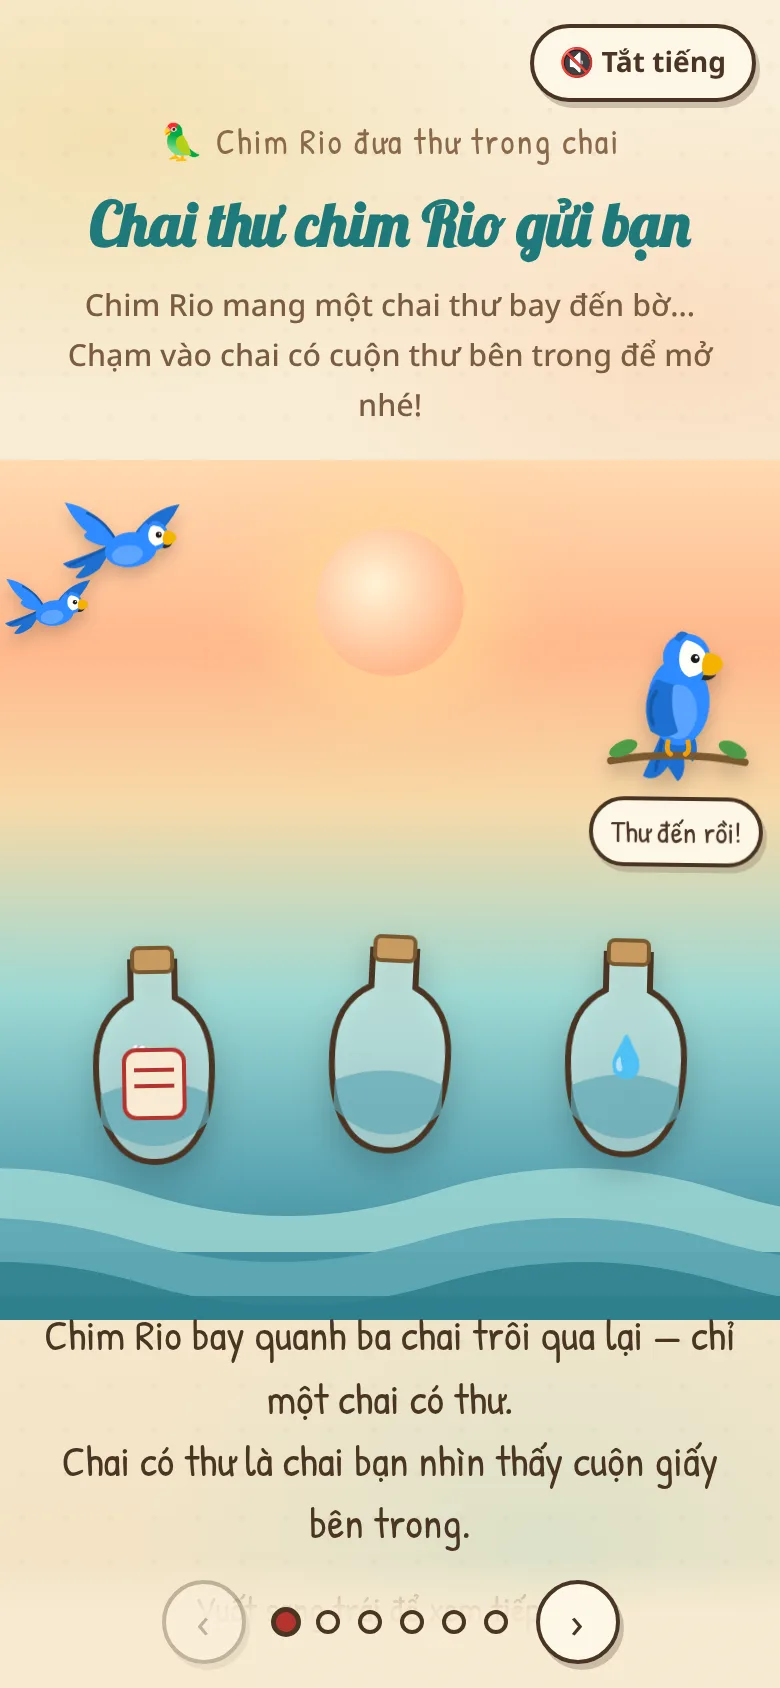
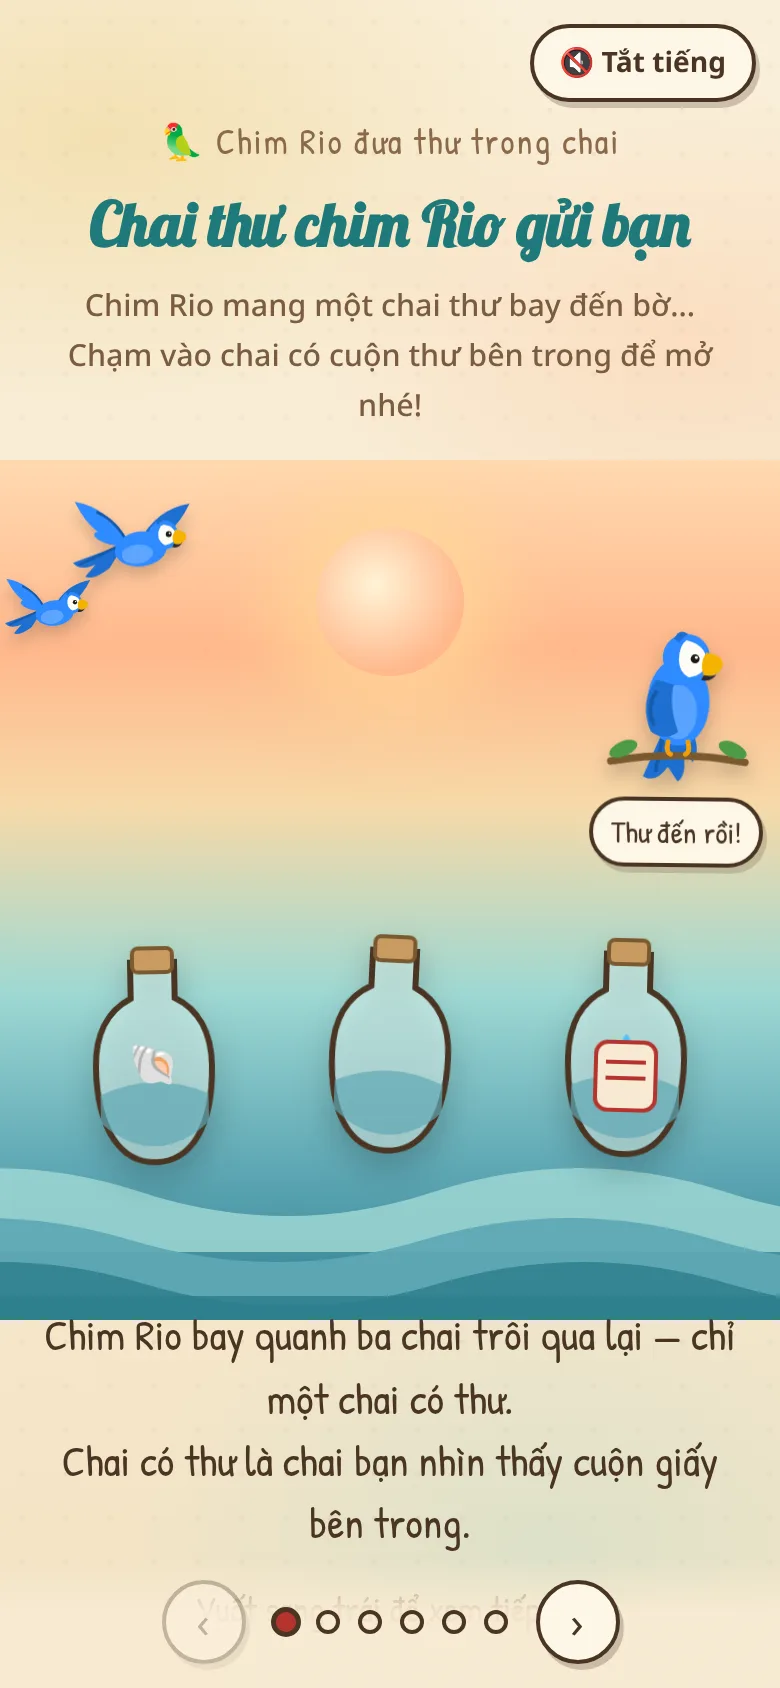
gen 352: thay anh be that + doi tiec sang Amor Resort 18h 20/11/2026

Changed region(s): [[0.0923, 0.2773, 0.2462, 0.3697], [0.7385, 0.6161, 0.8615, 0.6777], [0.1538, 0.6161, 0.2462, 0.6777]]

diff --git a/assets/js/data.js b/assets/js/data.js
@@ -7537,7 +7537,7 @@ const PRODUCTS = [
         id: 352,
         name: 'Thôi Nôi Bé Dương — Chai Thư & Chim Rio',
         slug: 'thoi-noi-be-duong-chai-thu-chim-rio',
-        description: 'Thiệp mời thôi nôi online dạng thư trong chai do chim Rio đưa thư, vuốt ngang 6 trang: mini game chọn chai có thư, tờ thư viết tay có dấu sáp và ảnh polaroid, vẽ lời chúc lên cát, nhật ký năm đầu đời lật polaroid, bản đồ chim Rio bay tới Nhà hàng Hoa Sữa, phong bì hồi âm tem chim Rio. Minh hoạ chim Rio vẹt xanh bay, đậu cành và mang chai thư. Âm thanh guitar mộc, sóng và tiếng chim Rio mặc định tắt.',
+        description: 'Thiệp mời thôi nôi online dạng thư trong chai do chim Rio đưa thư, vuốt ngang 6 trang: mini game chọn chai có thư, tờ thư viết tay có dấu sáp và ảnh polaroid, vẽ lời chúc lên cát, nhật ký năm đầu đời lật polaroid, bản đồ chim Rio bay tới Trung Tâm Yến Tiệc Và Hội Nghị Amor Resort, phong bì hồi âm tem chim Rio. Minh hoạ chim Rio vẹt xanh bay, đậu cành và mang chai thư. Âm thanh guitar mộc, sóng và tiếng chim Rio mặc định tắt.',
         category: 'other',
         type: 'invitation',
         style: '',
